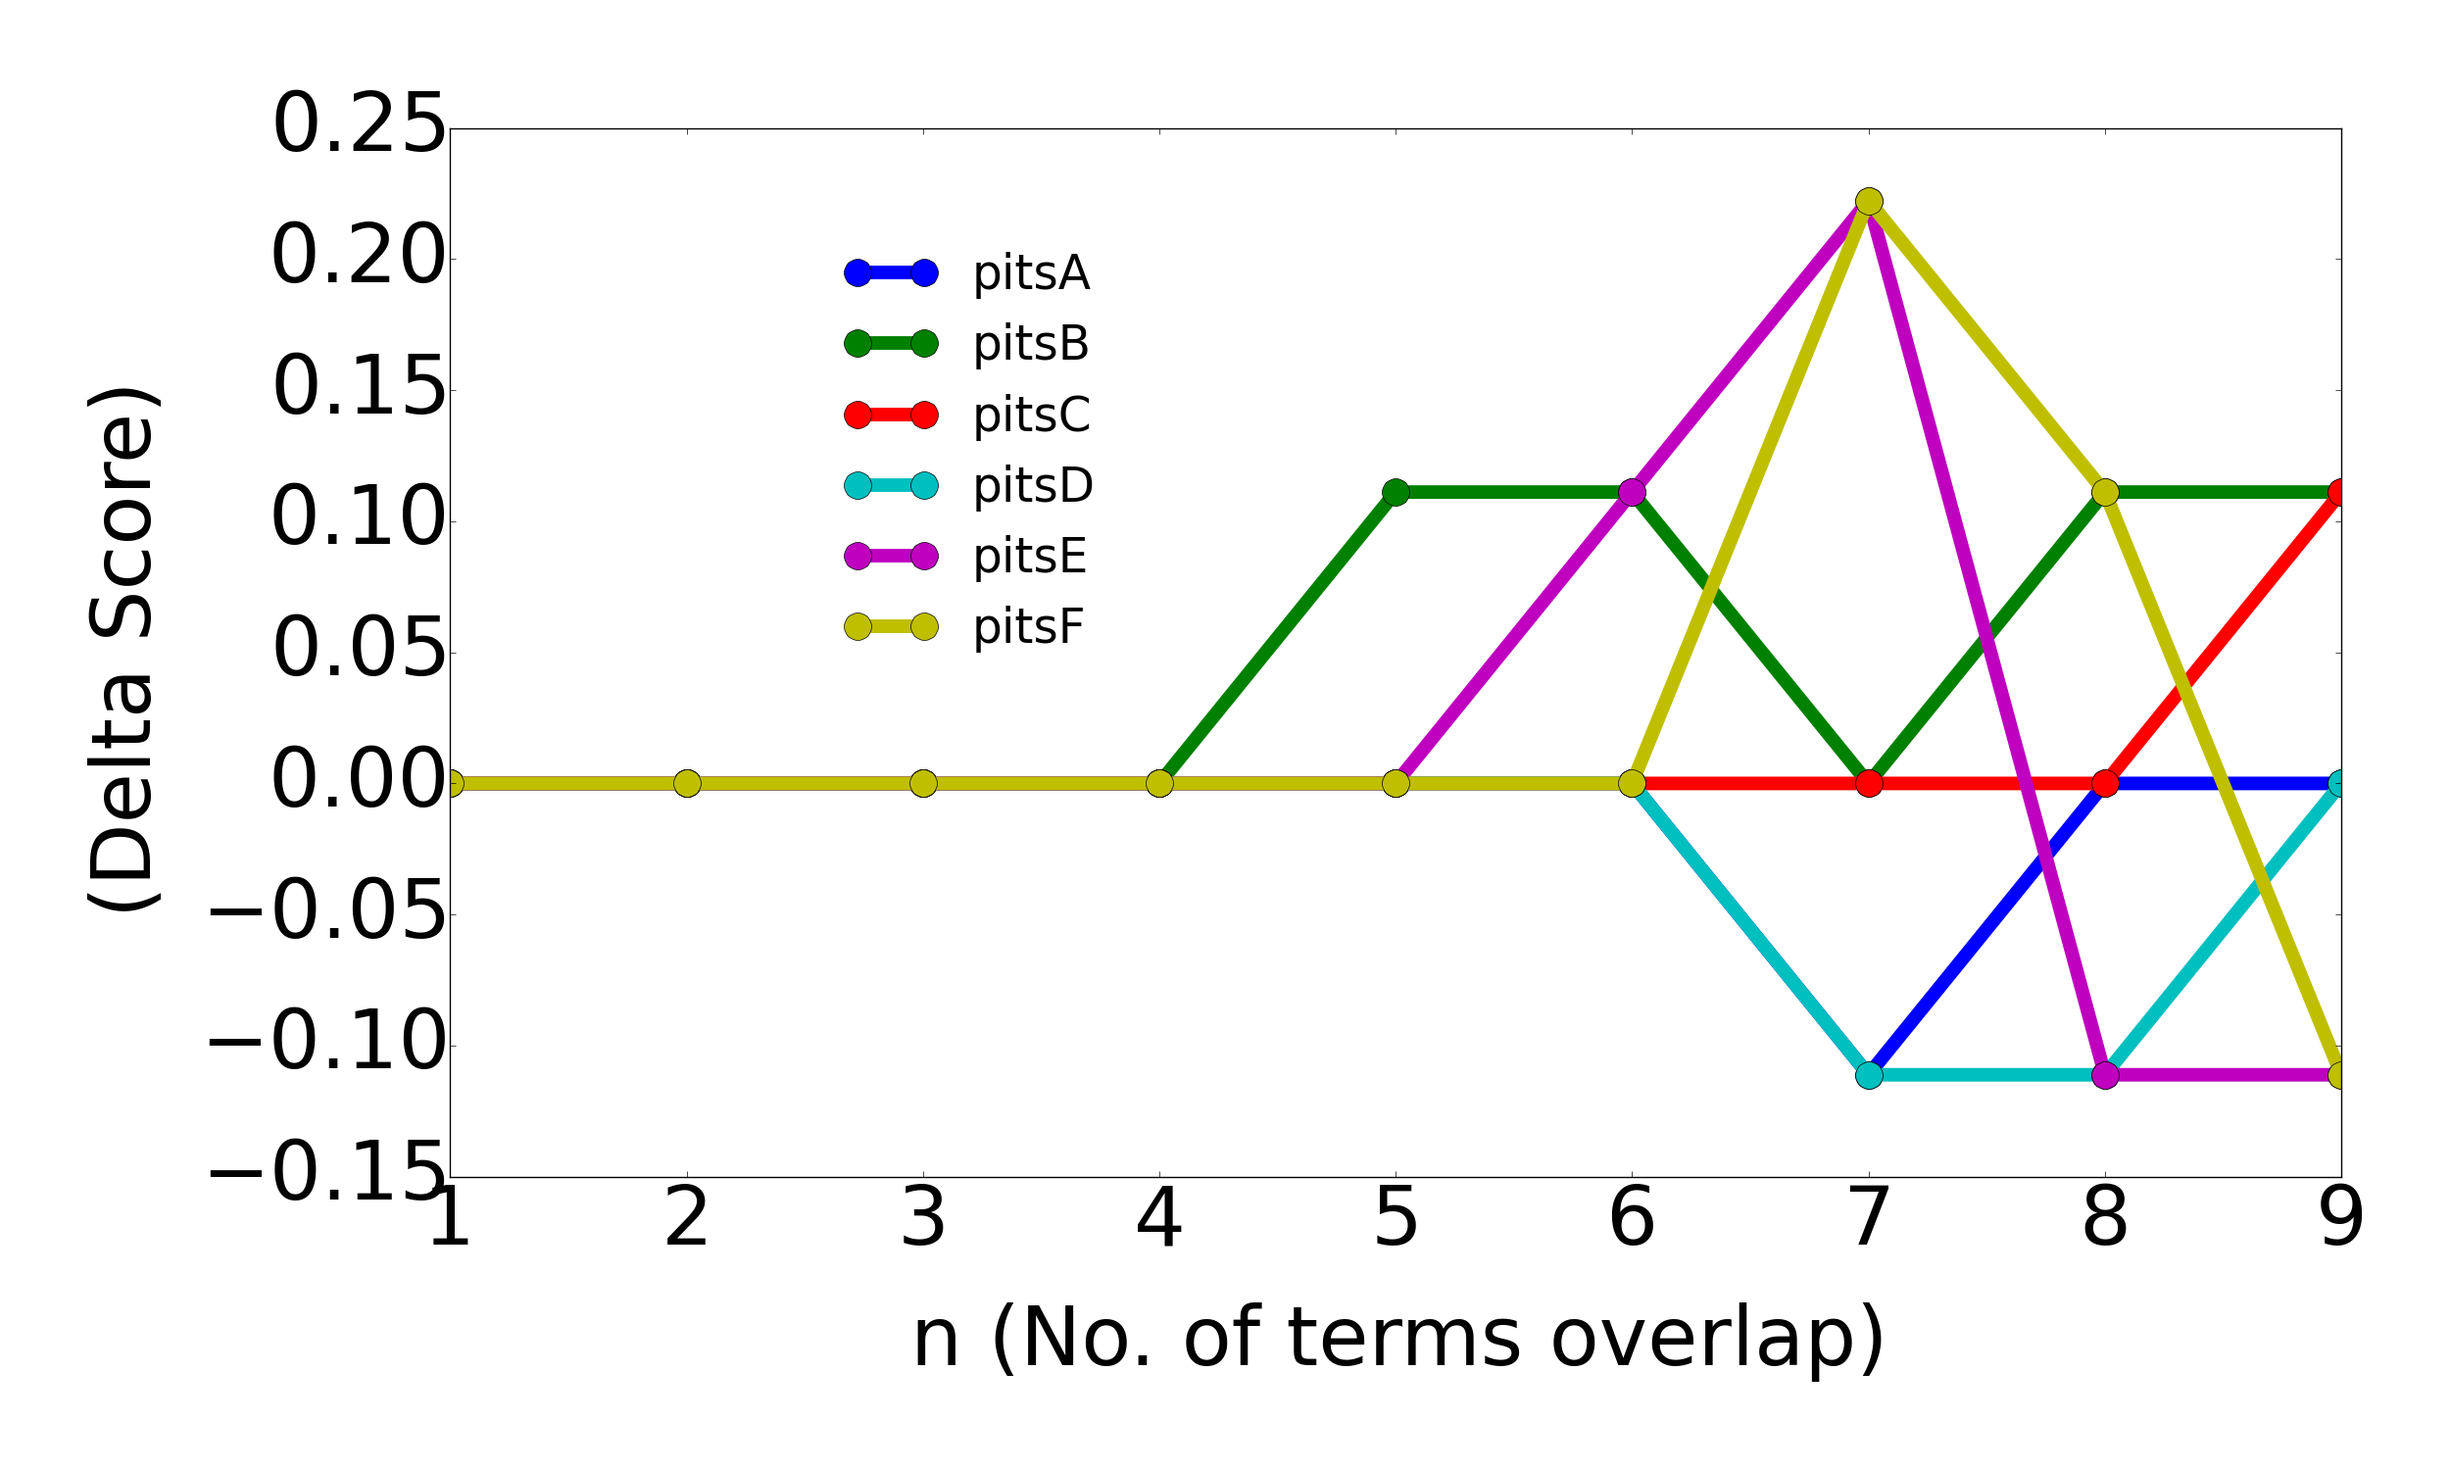
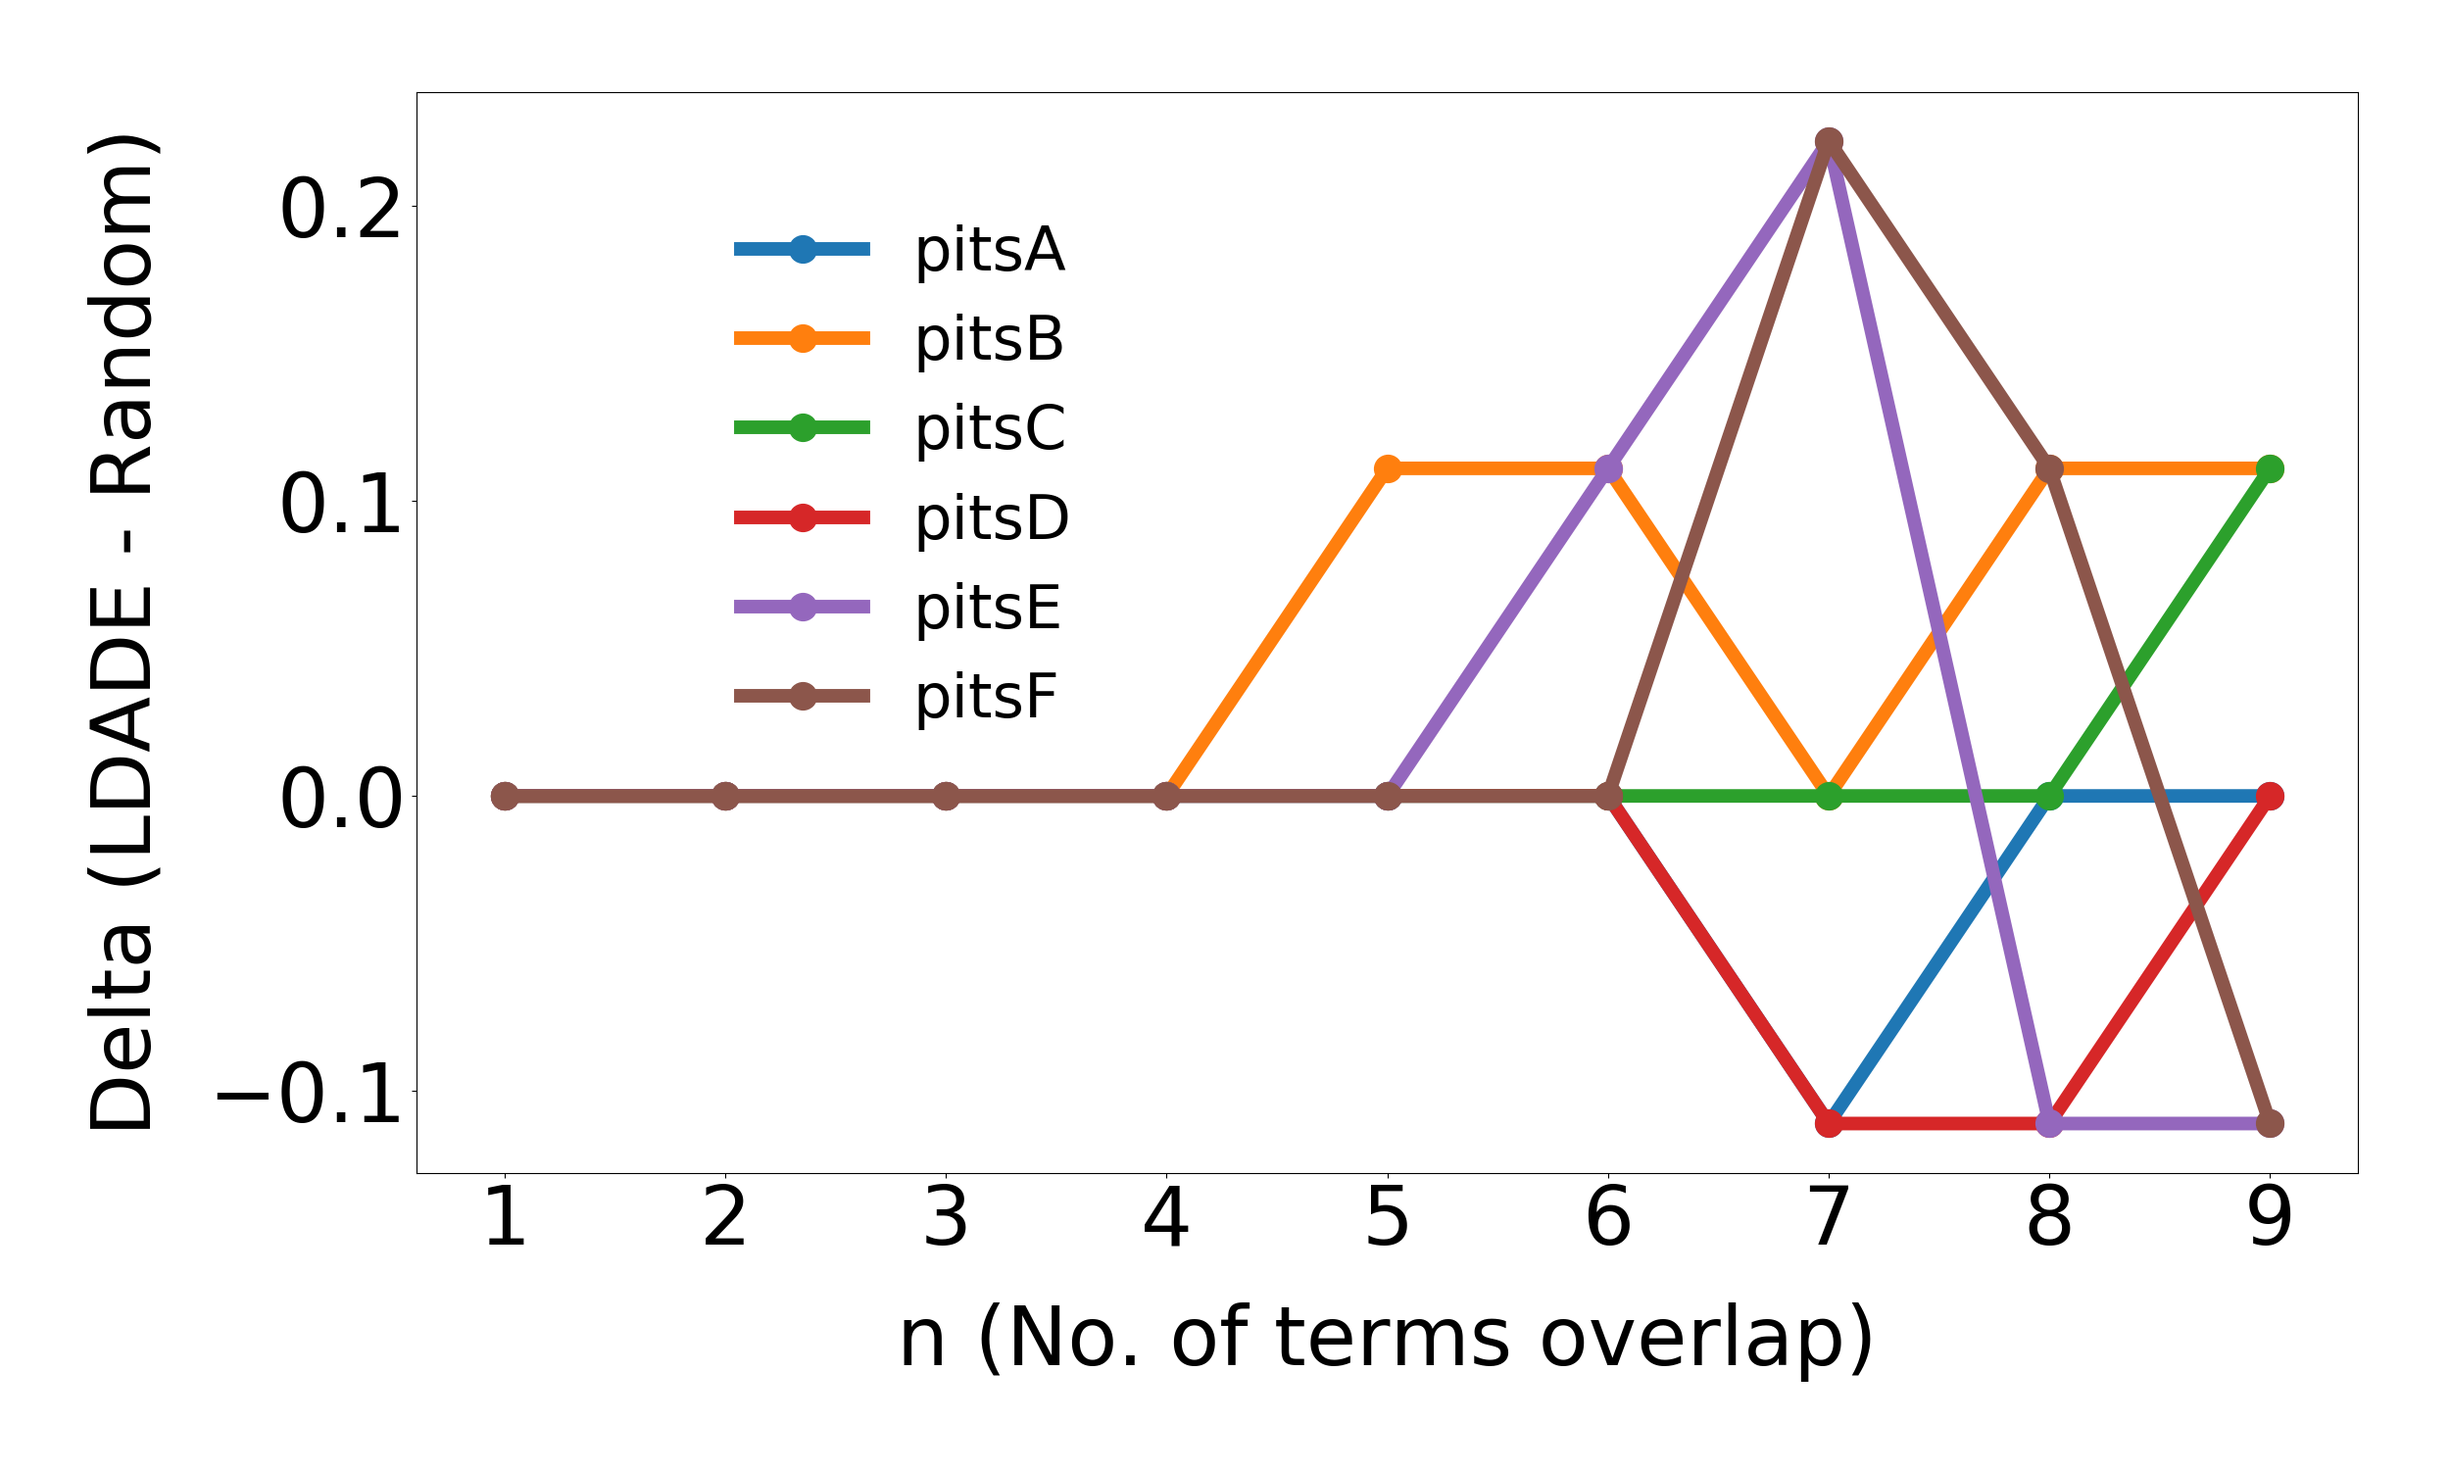
save

diff --git a/src/GA/ga_classification.py b/src/GA/ga_classification.py
@@ -18,12 +18,15 @@ f2_untuned={'SE6': {40: [0.78715056400196182, 0.80312185297079564, 0.79183266932
 f1_tuned_alpha_beta_k={'SE6': {7: 0.82}, 'SE3': {7: 0.56}, 'SE1': {7: 0.69}, 'SE0': {7: 0.71}, 'photo': {7: 0.81}, 'SE8': {7: 0.69}, 'scifi': {7: 0.81}, 'rpg': {7: 0.71}, 'cs': {7: 0.70}, 'diy': {7: 0.80}}
 f1_tuned_alpha_beta_10={'SE6': {7: 0.59}, 'SE3': {7: 0.42}, 'SE1': {7: 0.62}, 'SE0': {7: 0.44}, 'photo': {7: 0.41},'SE8': {7: 0.49}, 'scifi': {7: 0.56}, 'rpg': {7: 0.41}, 'cs': {7: 0.49}, 'diy': {7: 0.46}}
 
+f1_tunedga_alpha_beta_k={'SE6': {7: 0.79}, 'SE3': {7: 0.59}, 'SE1': {7: 0.75}, 'SE0': {7: 0.65}, 'photo': {7: 0.72}, 'SE8': {7: 0.64}, 'scifi': {7: 0.83}, 'rpg': {7: 0.66}, 'cs': {7: 0.68}, 'diy': {7: 0.74}}
+
 tuned_alpha_beta_k={'SE6': {7: 0.89}, 'SE3': {7: 0.56}, 'SE1': {7: 0.67}, 'SE0': {7: 0.78}, 'photo': {7: 0.89}, 'SE8': {7: 0.67}, 'scifi': {7: 0.89}, 'rpg': {7: 0.78}, 'cs': {7: 0.67}, 'diy': {7: 0.89}}
 tuned_alpha_beta_10={'SE6': {7: 0.56}, 'SE3': {7: 0.56}, 'SE1': {7: 0.67}, 'SE0': {7: 0.33}, 'photo': {7: 0.44},'SE8': {7: 0.44}, 'scifi': {7: 0.56}, 'rpg': {7: 0.44}, 'cs': {7: 0.44}, 'diy': {7: 0.44}}
 
 
 files = ['SE0', 'SE1', 'SE3', 'SE6', 'SE8', 'cs', 'diy', 'photo', 'rpg', 'scifi']
-topic=[74, 67, 87, 82,63,52,44,38,39,45]
+topic=   [74, 67, 87, 82,63,52,44,38,39,45]
+topic_ga=[66, 74, 89, 82,59,57,49,46,37,53]
 
 de_iqr={40: [0.0096767833902912104, 0.0053650727601135539, 0.049876554478127777, 0.0088398430743588108, 0.038822607915051155, 0.014841647465797414, 0.020089769132564439, 0.018999987525313122, 0.013373853474084818, 0.0068486896173866052], 80: [0.013818318699001964, 0.0049916418924949024, 0.032485674588791813, 0.010139905675560557, 0.026842875910991937, 0.013365395317341711, 0.017643091713148595, 0.017525279024725227, 0.015578494133034249, 0.010282707758319076], 20: [0.010711466907204925, 0.0032916291574041079, 0.026450842898855131, 0.0074681395198899492, 0.014246384932080913, 0.020950757153465283, 0.02554378182639, 0.015628828839760633, 0.0067810210701675366, 0.0060699041108205343], 200: [0.02567040746419591, 0.0054841473677104124, 0.046843632639126054, 0.013967611336032193, 0.094459943334897711, 0.026090248430638563, 0.015094636434490938, 0.017188310995224942, 0.015941749936372041, 0.013333039492242627]}
 de_med={40: [0.91787439613526578, 0.91876842450049134, 0.5236634531113058, 0.79126213592232997, 0.31040268456375836, 0.59449636552440288, 0.59701492537313439, 0.41404438555813183, 0.51072066706372832, 0.80042527339003644], 80: [0.91350040420371859, 0.91269841269841268, 0.63281250000000011, 0.83021890016017086, 0.28691813804173355, 0.58043117744610284, 0.60474669100867184, 0.40238918579063193, 0.51317401960784315, 0.88364249578414844], 20: [0.9105180533751962, 0.90689432989690733, 0.37973667308927428, 0.4878880928010918, 0.25453277545327752, 0.53420805998125587, 0.46875, 0.39053591790193837, 0.50778158797151141, 0.73294829482948298], 200: [0.88455149501661134, 0.90704272363150884, 0.69111852076386771, 0.76436478650500794, 0.48928571428571427, 0.5869957856712823, 0.66740823136818694, 0.42264150943396228, 0.48524404086265605, 0.86365241963970329]}
@@ -33,16 +36,20 @@ untuned_med = []
 untuned_iqr=[]
 tuned_med = {}
 tuned_iqr = {}
+
 for x in f1_untuned['SE6'].keys():
     if x!=10:
         tuned_med[x]=[]
         tuned_iqr[x] = []
 
+
 tuned_k=[]
 tuned_10=[]
+tunedga_k=[]
 for i in files:
     tuned_k.append(f1_tuned_alpha_beta_k[i][7])
     tuned_10.append(f1_tuned_alpha_beta_10[i][7])
+    tunedga_k.append(f1_tunedga_alpha_beta_k[i][7])
     for k, v in f1_untuned[i].iteritems():
         if k==10:
             untuned_med.append(np.median(f1_untuned[i][k]))
@@ -51,10 +58,6 @@ for i in files:
             tuned_med[k].append(np.median(f1_untuned[i][k]))
             tuned_iqr[k].append(np.percentile(f1_untuned[i][k], 75) - np.percentile(f1_untuned[i][k], 25))
 
-print(tuned_iqr)
-print(tuned_med)
-print(tuned_k)
-print(tuned_10)
 
 font = {'family': 'normal',
         'weight': 'bold',
@@ -72,20 +75,26 @@ plt.figure(figsize=(40, 25))
 #     line, = plt.plot(X, tuned_med[i], marker='o', markersize=16, label='tuned '+str(i))
 #     plt.plot(X, tuned_iqr[i], linestyle="-.", color=line.get_color(), marker='*', markersize=16)
 
-line, = plt.plot(X, untuned_med, marker='o', markersize=16, label='untuned_10')
-plt.plot(X, untuned_iqr, linestyle="-.",color=line.get_color(), marker='*', markersize=16, label='untuned_10 iqr')
+# line, = plt.plot(X, untuned_med, marker='o', markersize=16, label='untuned_10')
+# plt.plot(X, untuned_iqr, linestyle="-.",color=line.get_color(), marker='*', markersize=16, label='untuned_10 iqr')
 
-line, =plt.plot(X, tuned_k, marker='o', markersize=16, label='tuned_k')
-plt.plot(X, tuned_iqr[40], linestyle="-.",color=line.get_color(), marker='*', markersize=16, label='tuned_k iqr')
+line, =plt.plot(X, tuned_k, marker='o', markersize=16, label='LDADE med')
+plt.plot(X, tuned_iqr[40], linestyle="-.",color=line.get_color(), marker='*', markersize=16, label='LDADE iqr')
 for i,text in enumerate(topic):
     plt.annotate(text,(X[i],tuned_k[i]))
-line, = plt.plot(X, tuned_10, marker='o', markersize=16, label='tuned 10')
-plt.plot(X, tuned_iqr[80], linestyle="-.",color=line.get_color(), marker='*', markersize=16, label='tuned 10 iqr')
+
+line, = plt.plot(X, tunedga_k, marker='o', markersize=16, label='LDA-GA med')
+plt.plot(X, tuned_iqr[20], linestyle="-.", color=line.get_color(), marker='*', markersize=16, label='LDA-GA iqr')
+for i, text in enumerate(topic_ga):
+    plt.annotate(text, (X[i], tunedga_k[i]))
+
+# line, = plt.plot(X, tuned_10, marker='o', markersize=16, label='tuned 10')
+# plt.plot(X, tuned_iqr[80], linestyle="-.",color=line.get_color(), marker='*', markersize=16, label='tuned 10 iqr')
 
 plt.ylim(0.0,1.0)
 #plt.axhline(0, color='black')
 plt.xticks(X, files)
 plt.ylabel("F1 scores")
 plt.xlabel("Datasets")
-plt.legend(bbox_to_anchor=(0.95, 1.05), loc=1, ncol=3, borderaxespad=0.)
-plt.savefig("F1_temp" + ".png")
+plt.legend(bbox_to_anchor=(0.75, 1.00), loc=1, ncol=2, borderaxespad=0.)
+plt.savefig("F1_ga" + ".png")

diff --git a/src/09-07/draw.py b/src/09-07/draw.py
@@ -50,7 +50,7 @@ if __name__ == '__main__':
             'size'   : 60}
 
     plt.rc('font', **font)
-    paras={'lines.linewidth': 10,'legend.fontsize': 35, 'axes.labelsize': 60, 'legend.frameon': False,'figure.autolayout': True}
+    paras={'lines.linewidth': 10,'legend.fontsize': 45, 'axes.labelsize': 60, 'legend.frameon': False,'figure.autolayout': True}
     plt.rcParams.update(paras)
     X = range(len(labels))
     plt.figure(num=0, figsize=(25, 15))
@@ -73,7 +73,7 @@ if __name__ == '__main__':
         #plt.text(0.04, 0.5,"Rn (Raw Score)", labelpad=100)
     #plt.ylim(-0.2,1.1, )
     plt.xticks(X, labels)
-    plt.ylabel("(Delta Score)", labelpad=30)
+    plt.ylabel("Delta (LDADE - Random)", labelpad=30)
     plt.xlabel("n (No. of terms overlap)",labelpad=30)
     plt.legend(bbox_to_anchor=(0.35, 0.9), loc=1, ncol = 1, borderaxespad=0.)
     plt.savefig("delta_randomness" + ".png")
